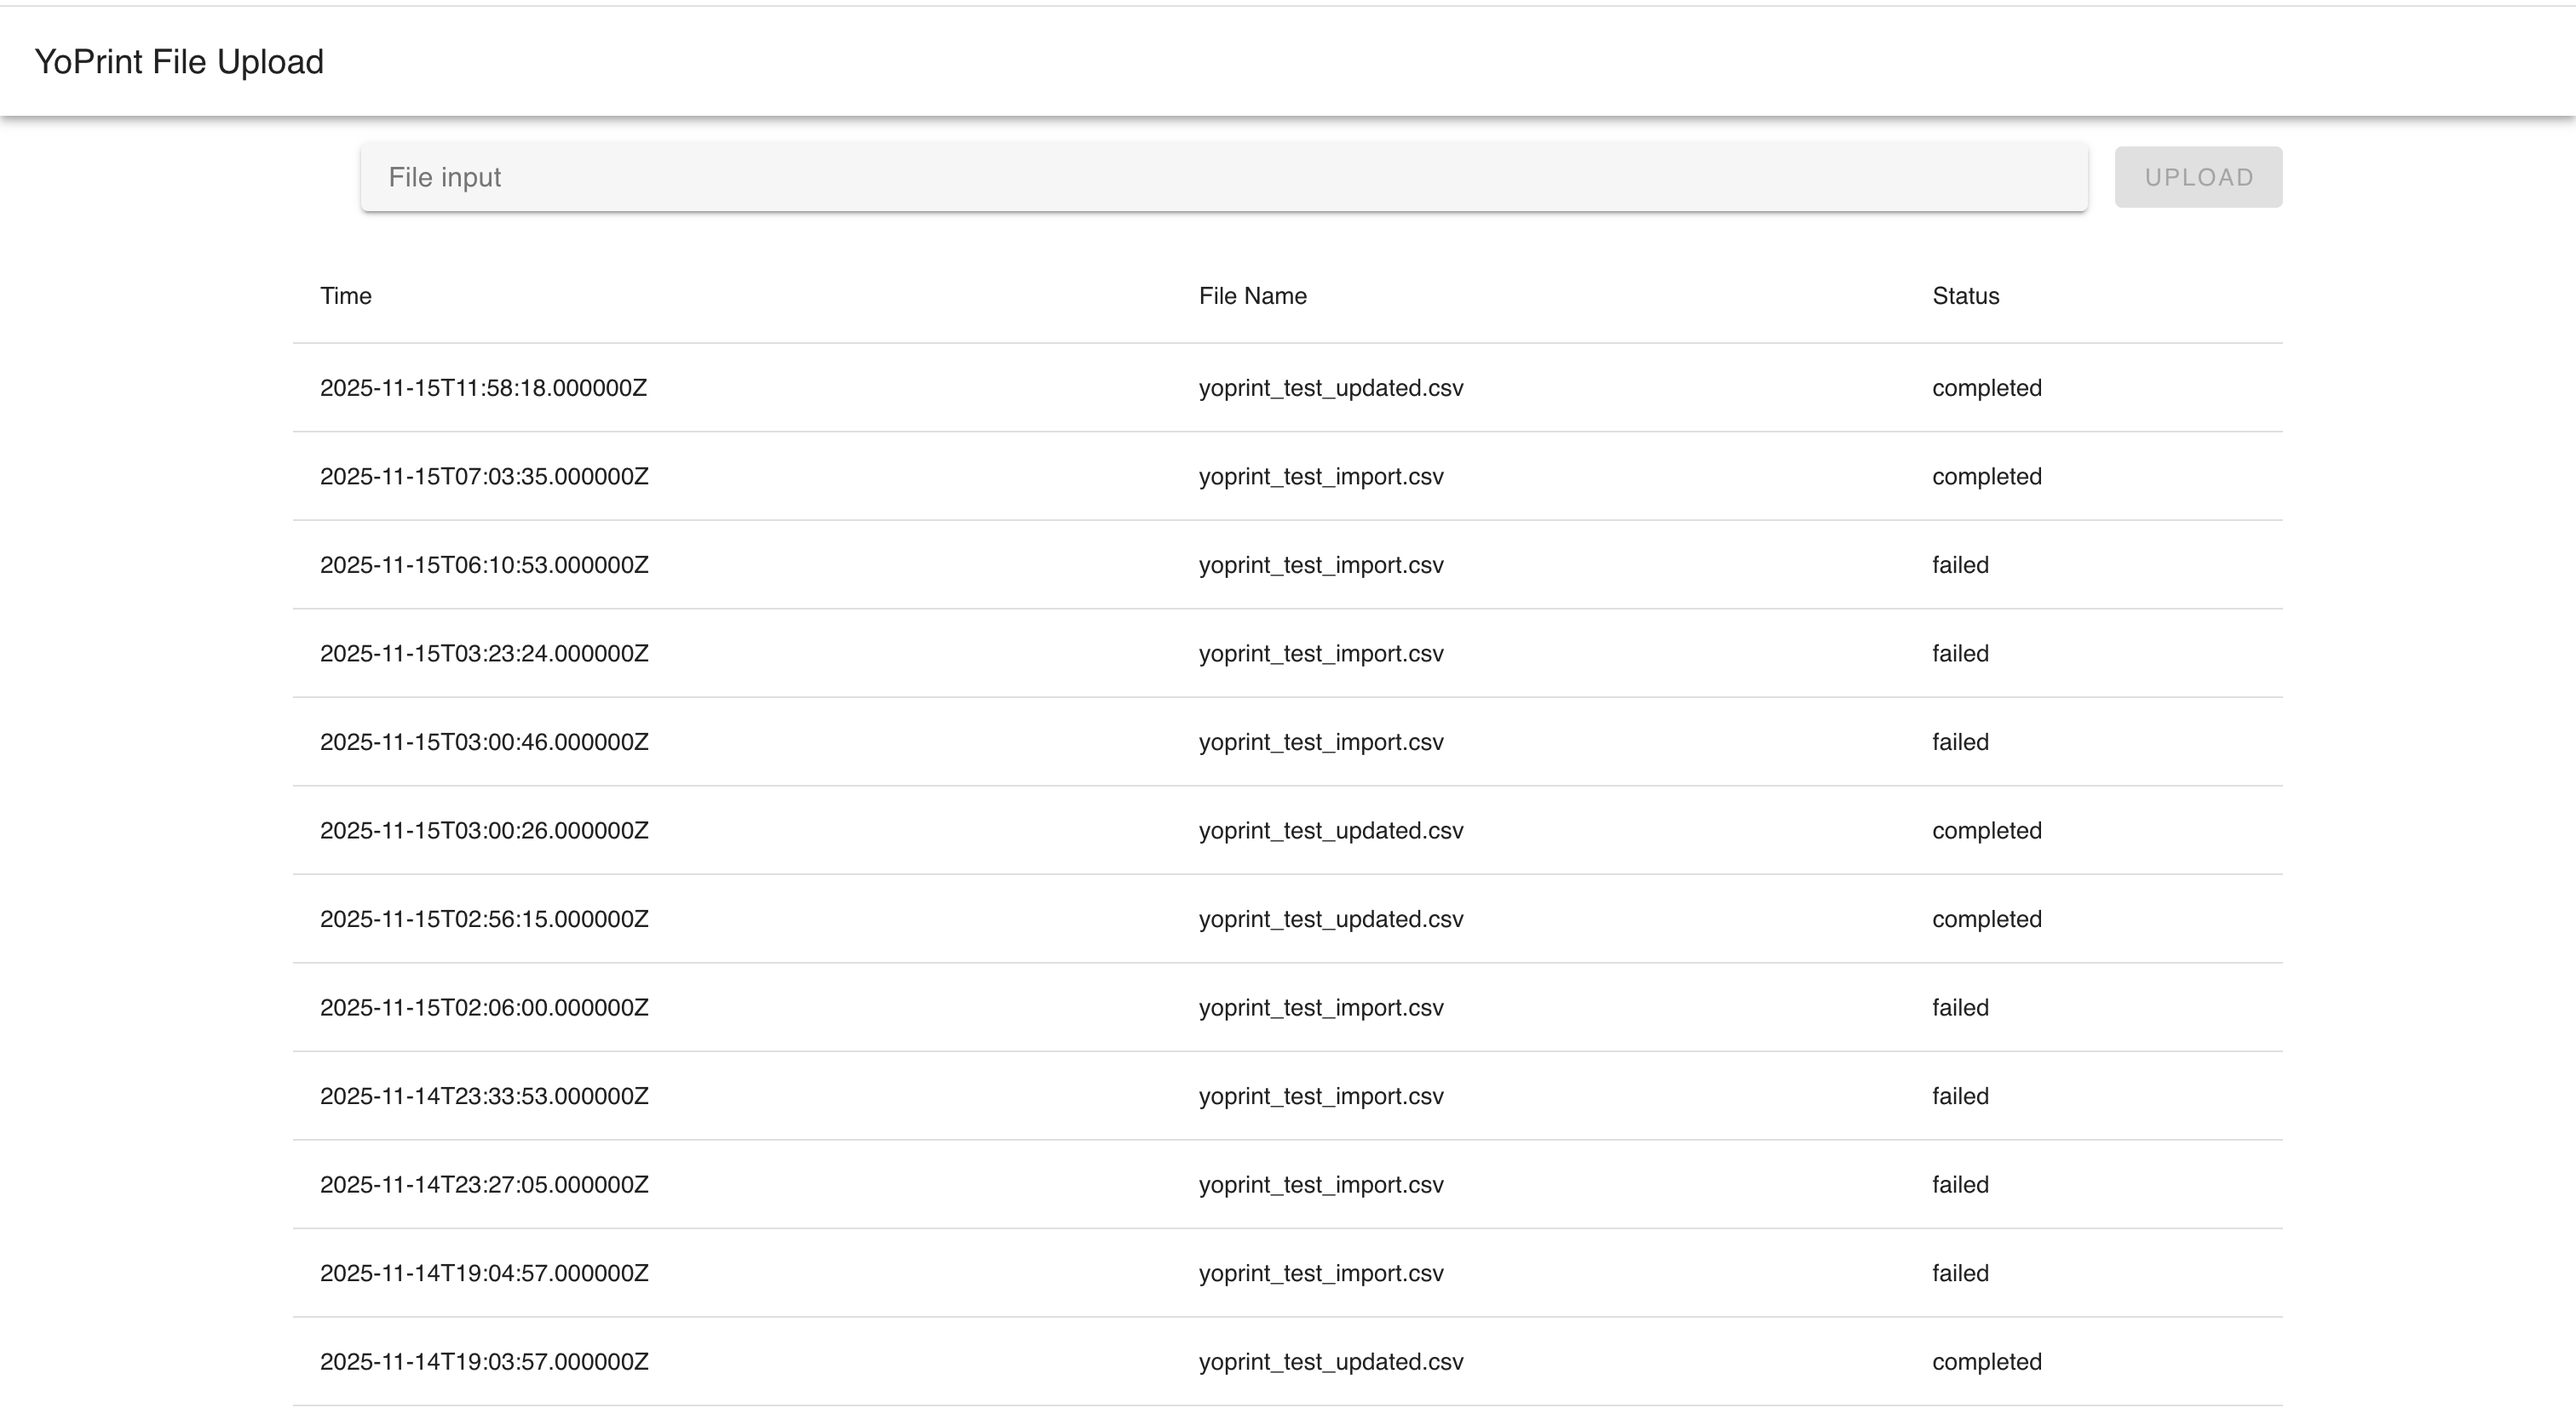
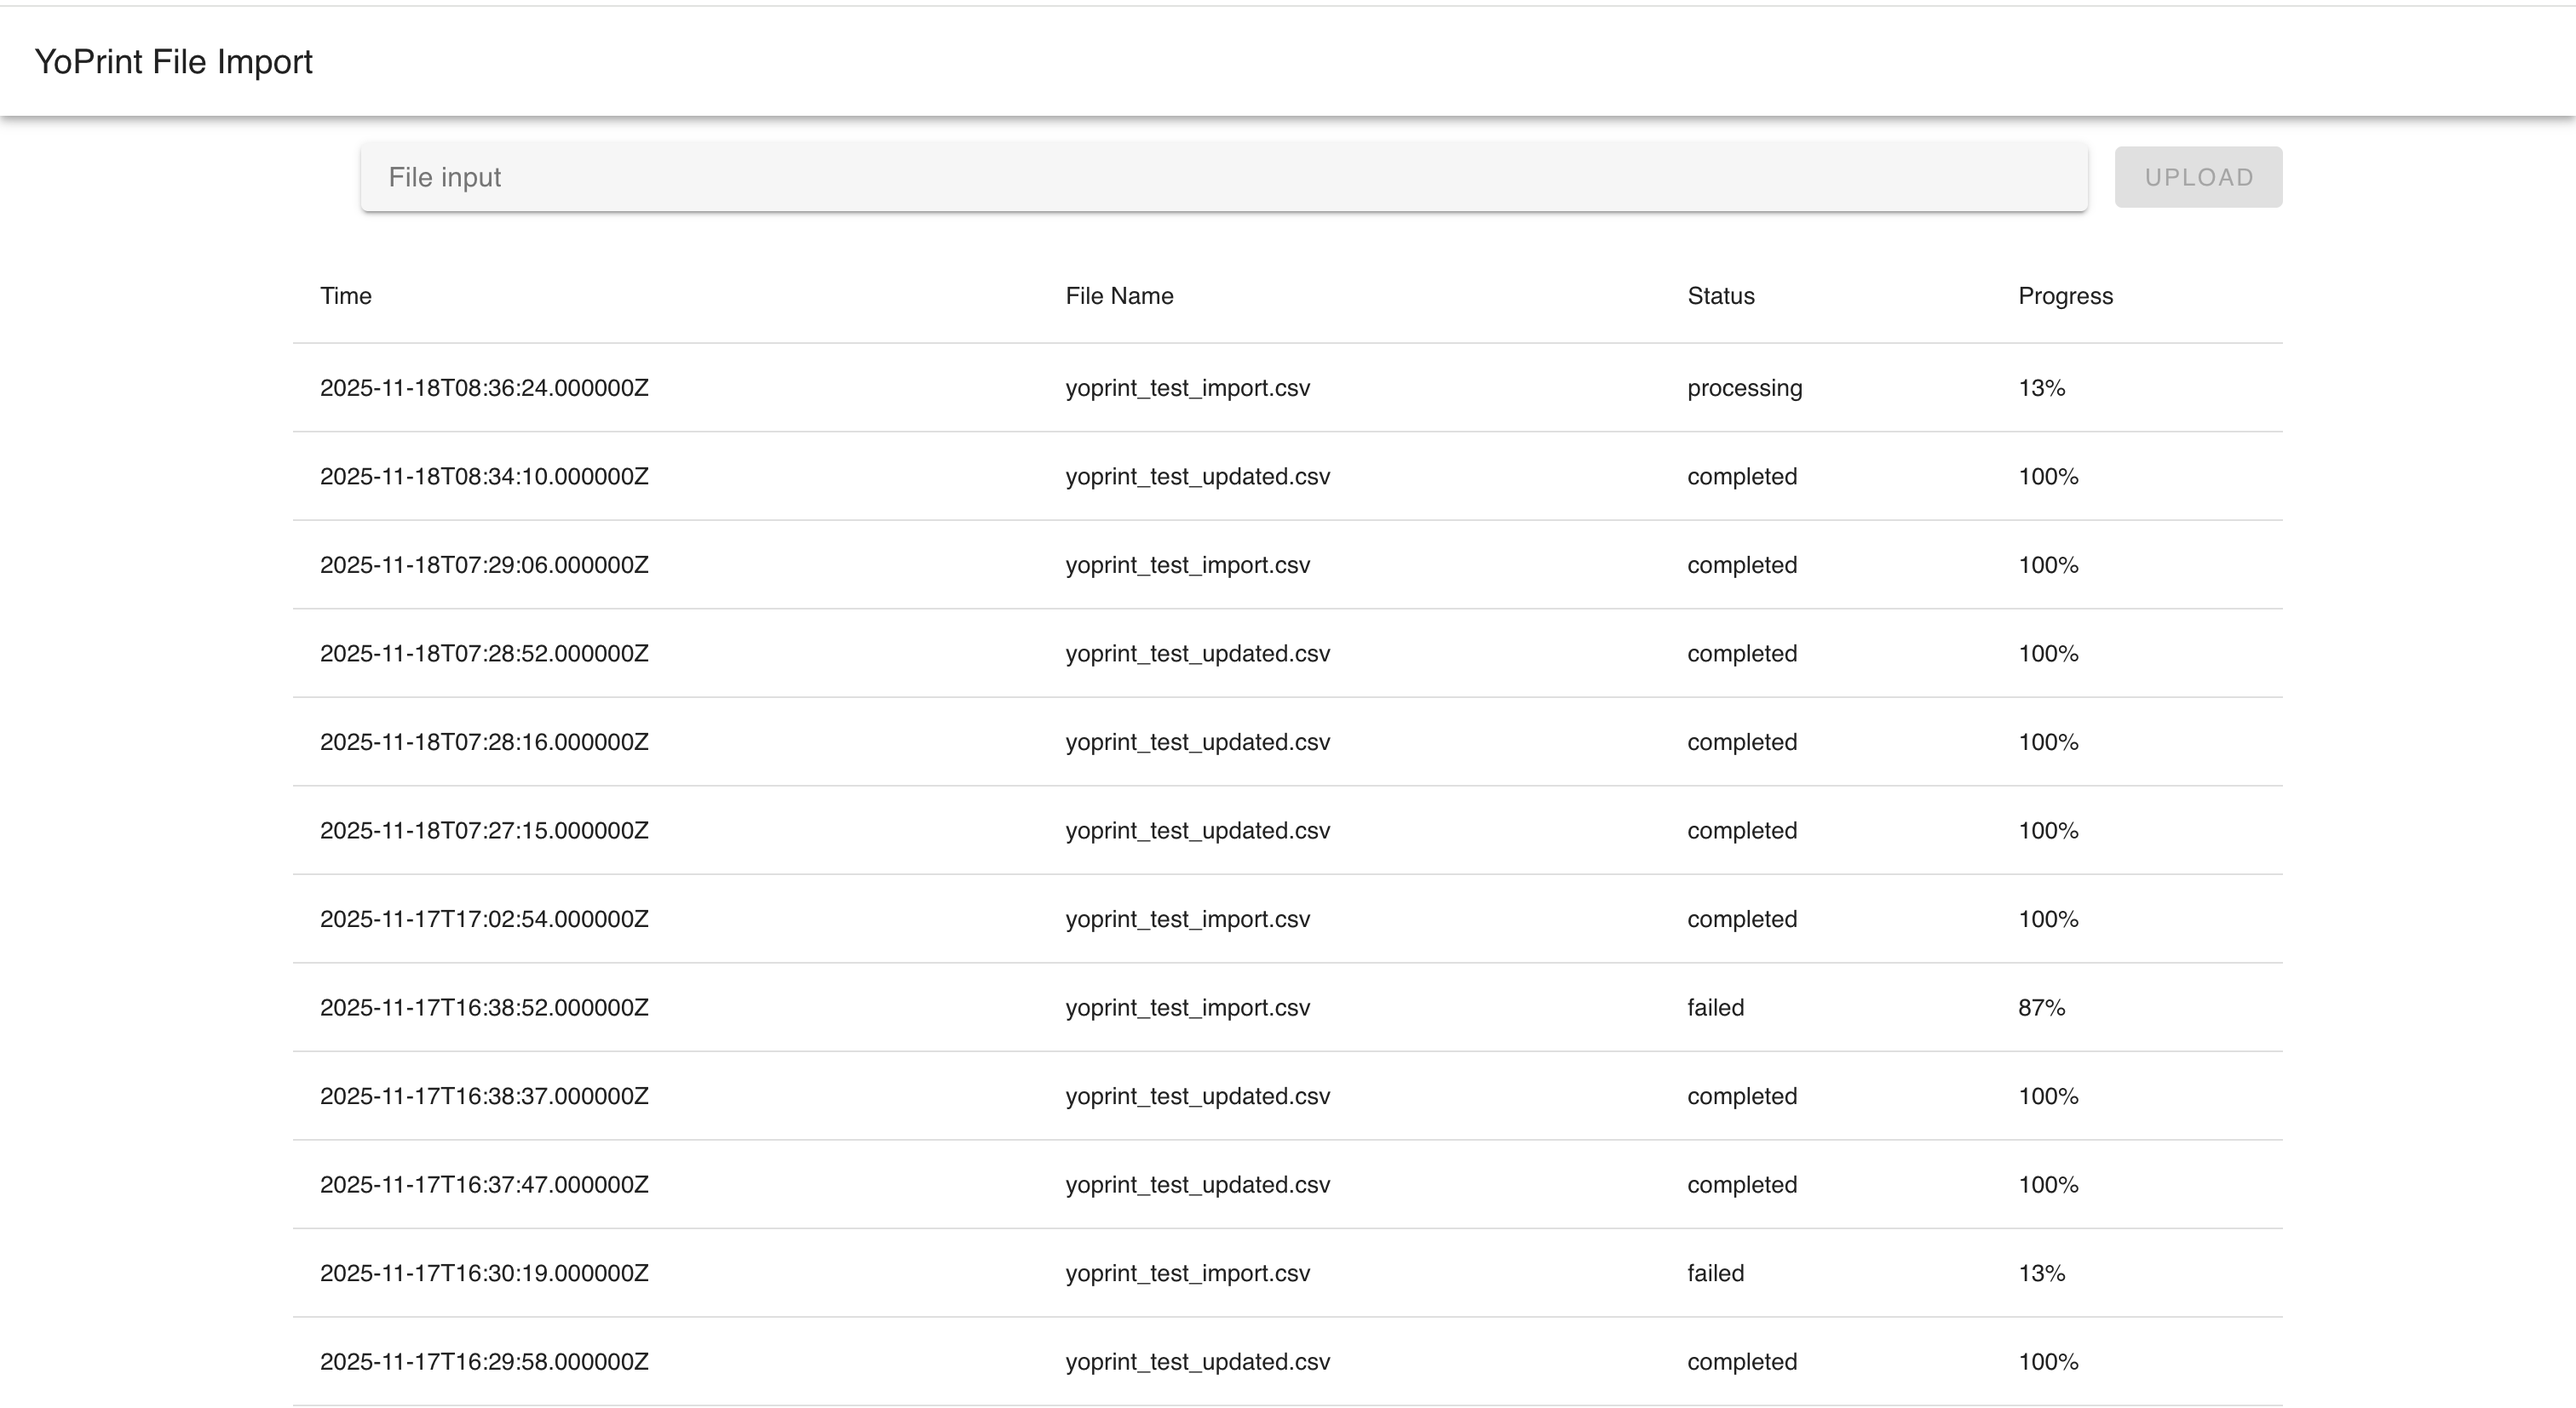
Adding Import Progress

diff --git a/resources/js/Pages/Home.vue b/resources/js/Pages/Home.vue
@@ -91,6 +91,9 @@
                         <th>
                             Status
                         </th>
+                        <th>
+                            Progress
+                        </th>
                     </tr>
                 </thead>
                 <tbody>
@@ -98,6 +101,10 @@
                         <td>{{ upload.created_at }}</td>
                         <td>{{ upload.filename }}</td>
                         <td>{{ upload.status }}</td>
+                        <td v-if="upload.processed > 0">
+                            {{ Math.floor(upload.processed / upload.total * 100) }}%
+                        </td>
+                        <td v-else>0%</td>
                     </tr>
                 </tbody>
             </v-table>

diff --git a/tests/Feature/Services/ImportServiceTest.php b/tests/Feature/Services/ImportServiceTest.php
@@ -89,14 +89,22 @@ class ImportServiceTest extends TestCase
         ]);
 
         Event::assertDispatched(UploadUpdated::class, function ($event) use ($upload) {
-            return $event->upload->id === $upload->id 
+            return $event->upload->id === $upload->id  
+                && $event->upload->processed > 0
                 && $event->upload->status === Upload::STATUS_PROCESSING;
-        }, 1);
+        });
+
+        Event::assertDispatched(UploadUpdated::class, function ($event) use ($upload) {
+            return $event->upload->id === $upload->id  
+                && $event->upload->processed === 0
+                && $event->upload->status === Upload::STATUS_PROCESSING;
+        });
 
         Event::assertDispatched(UploadUpdated::class, function ($event) use ($upload) {
             return $event->upload->id === $upload->id 
+                && $event->upload->processed === self::PRODUCT_TOTAL_TEST
                 && $event->upload->status === Upload::STATUS_COMPLETED;
-        }, 1);
+        });
 
         // delete file after test
         Storage::delete($filePath);
@@ -145,23 +153,38 @@ class ImportServiceTest extends TestCase
 
         Event::assertDispatched(UploadUpdated::class, function ($event) use ($upload1) {
             return $event->upload->id === $upload1->id 
-                && $event->upload->status === Upload::STATUS_PROCESSING;
-        }, 1);
+                && $event->upload->status === Upload::STATUS_PROCESSING
+                && $event->upload->processed === 0;
+        });
+
+        Event::assertDispatched(UploadUpdated::class, function ($event) use ($upload1) {
+            return $event->upload->id === $upload1->id 
+                && $event->upload->status === Upload::STATUS_PROCESSING
+                && $event->upload->processed > 0;
+        });
 
         Event::assertDispatched(UploadUpdated::class, function ($event) use ($upload1) {
             return $event->upload->id === $upload1->id 
                 && $event->upload->status === Upload::STATUS_COMPLETED;
-        }, 1);
+        });
 
         Event::assertDispatched(UploadUpdated::class, function ($event) use ($upload2) {
             return $event->upload->id === $upload2->id 
-                && $event->upload->status === Upload::STATUS_PROCESSING;
-        }, 1);
+                && $event->upload->status === Upload::STATUS_PROCESSING
+                && $event->upload->processed === 0;
+        });
+
+        // no idea why this is not called
+        // Event::assertDispatched(UploadUpdated::class, function ($event) use ($upload2) {
+        //     return $event->upload->id === $upload2->id 
+        //         && $event->upload->status === Upload::STATUS_PROCESSING
+        //         && $event->upload->processed > 0;
+        // });
 
         Event::assertDispatched(UploadUpdated::class, function ($event) use ($upload2) {
             return $event->upload->id === $upload2->id 
                 && $event->upload->status === Upload::STATUS_COMPLETED;
-        }, 1);
+        });
 
         // delete file after test
         Storage::delete($filePath1);

diff --git a/app/Imports/ProductsImport.php b/app/Imports/ProductsImport.php
@@ -35,6 +35,15 @@ class ProductsImport implements ToModel, WithUpserts, ShouldQueue,
     */
     public function model(array $row)
     {
+        // get current processed total rows without header row
+        $totalRows = $this->getRowNumber() - 1;
+        // update progress for each 10 rows
+        if ($totalRows % 10 === 0) {
+            $this->upload->update([
+                'processed' => $totalRows
+            ]);
+        }
+
         $dbColumnMap = [
             'unique_key' => 'id',
             'product_title' => 'title',
@@ -77,14 +86,22 @@ class ProductsImport implements ToModel, WithUpserts, ShouldQueue,
 
     public function beforeImport(BeforeImport $event)
     {
+        // get total rows excluding header row
+        $totalRows = $event->getReader()->getTotalRows()['Worksheet'] - 1;
+
         $this->upload->update([
+            'total' => $totalRows,
             'status' => Upload::STATUS_PROCESSING
         ]);
     }
 
     public function afterImport(AfterImport $event)
     {
+        // get total rows excluding header row
+        $totalRows = $event->getReader()->getTotalRows()['Worksheet'] - 1;
+
         $this->upload->update([
+            'processed' => $totalRows,
             'status' => Upload::STATUS_COMPLETED
         ]);
     }

diff --git a/database/migrations/2025_11_17_152919_add_processing_row_count_fields.php b/database/migrations/2025_11_17_152919_add_processing_row_count_fields.php
@@ -1,0 +1,30 @@
+<?php
+
+use Illuminate\Database\Migrations\Migration;
+use Illuminate\Database\Schema\Blueprint;
+use Illuminate\Support\Facades\Schema;
+
+return new class extends Migration
+{
+    /**
+     * Run the migrations.
+     */
+    public function up(): void
+    {
+        Schema::table('uploads', function (Blueprint $table) {
+            $table->unsignedInteger('processed')->default(0)->after('filepath');
+            $table->unsignedInteger('total')->default(0)->after('processed');
+        });
+    }
+
+    /**
+     * Reverse the migrations.
+     */
+    public function down(): void
+    {
+        Schema::table('uploads', function (Blueprint $table) {
+            $table->dropColumn('processed');
+            $table->dropColumn('total');
+        });
+    }
+};

diff --git a/app/Models/Upload.php b/app/Models/Upload.php
@@ -22,6 +22,8 @@ class Upload extends BaseModel
      * @var array
      */
     protected $attributes = [
+        'processed' => 0,
+        'total' => 0,
         'status' => self::STATUS_PENDING
     ];
 
@@ -33,6 +35,8 @@ class Upload extends BaseModel
     protected $fillable = [
         'filename',
         'filepath',
+        'processed',
+        'total',
         'status'
     ];
 

diff --git a/app/Observers/UploadObserver.php b/app/Observers/UploadObserver.php
@@ -20,7 +20,7 @@ class UploadObserver
      */
     public function updated(Upload $upload): void
     {
-        if ($upload->wasChanged('status')) {
+        if ($upload->wasChanged(['status', 'processed', 'total'])) {
             UploadUpdated::dispatch($upload);
         }
     }
